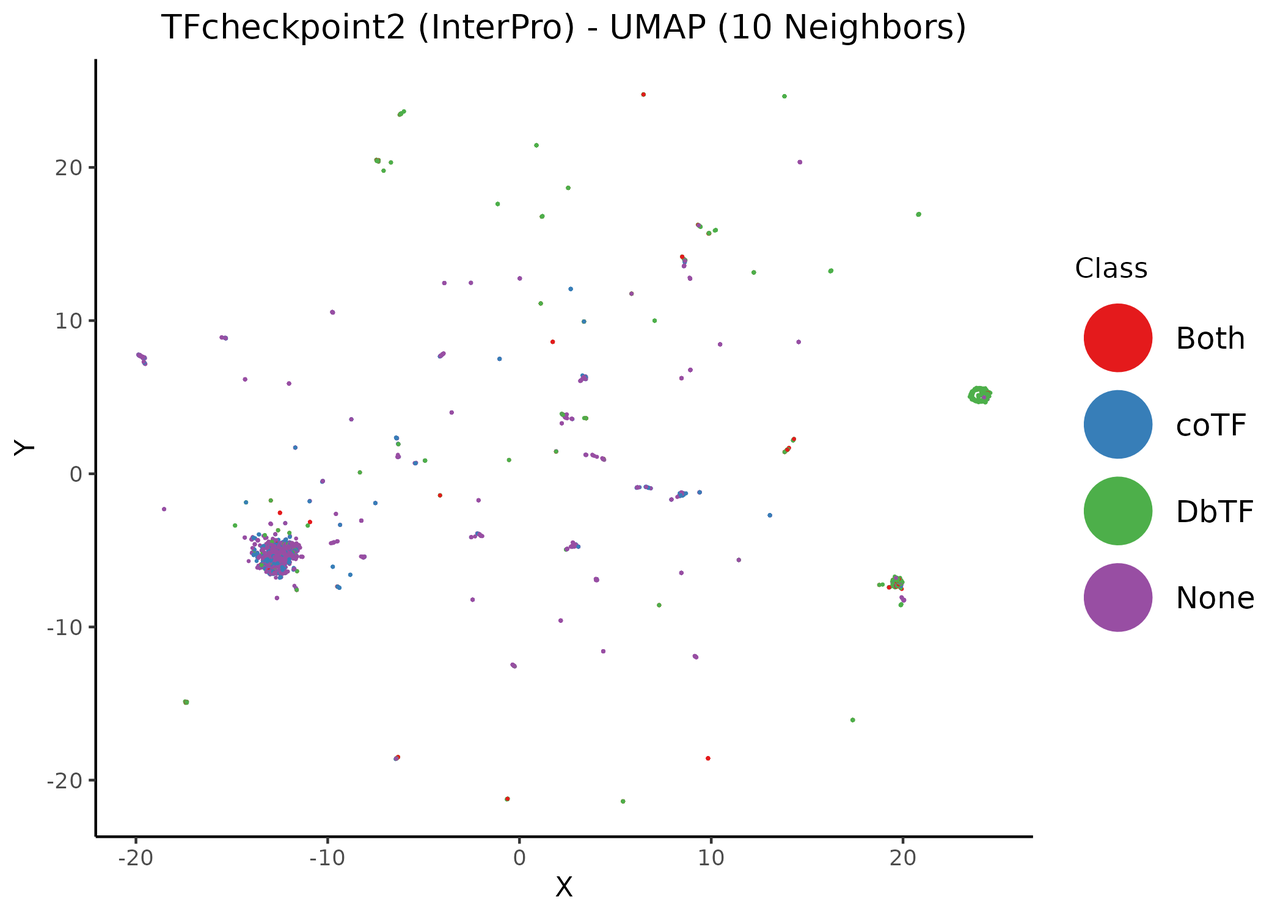
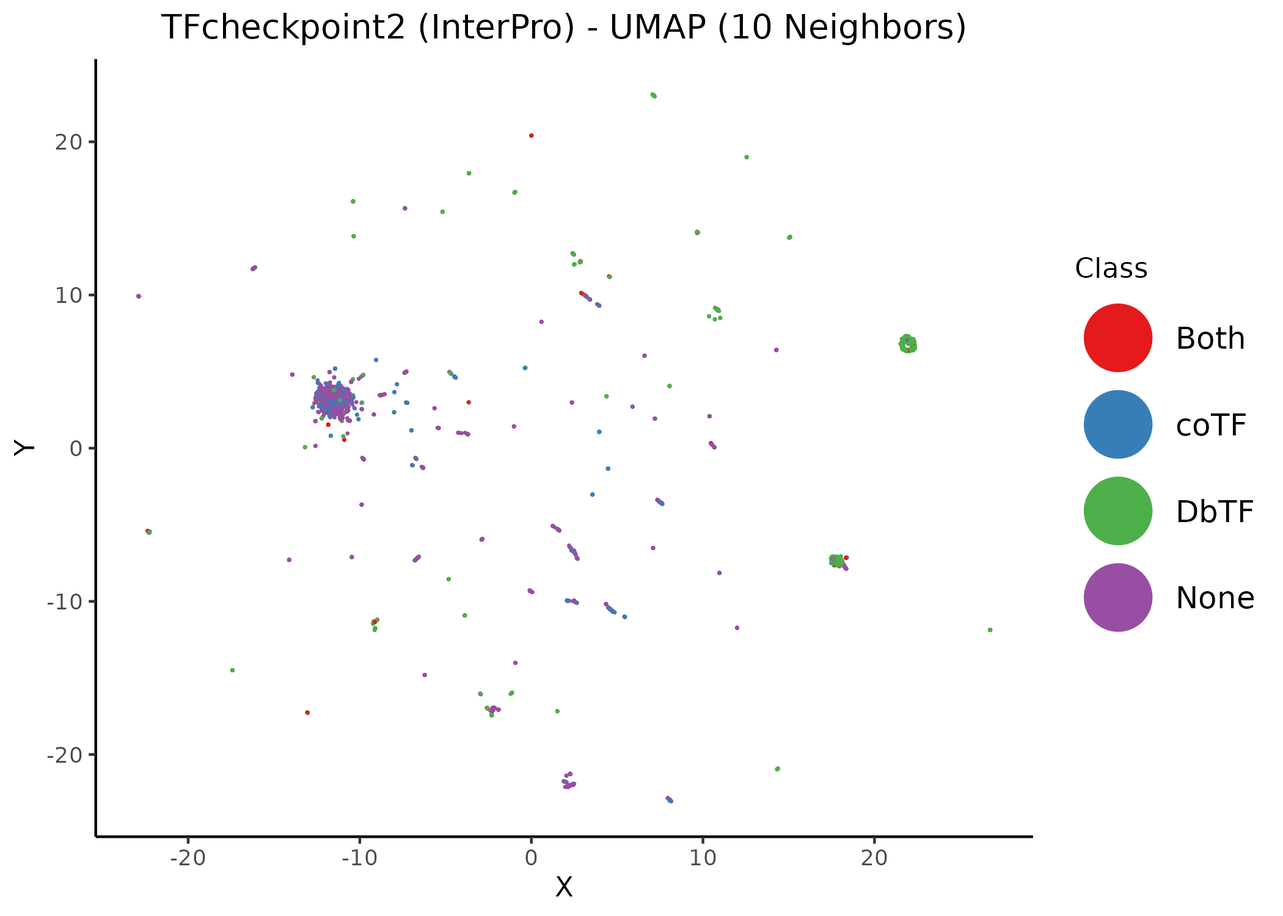
update docs

diff --git a/docs/index.html b/docs/index.html
@@ -911,8 +911,8 @@ div.csl-indent {
 </ul></li>
 <li class="chapter" data-level="" data-path=""><a href="#analysis-new-dataset"><i class="fa fa-check"></i>Analysis (New Dataset)</a>
 <ul>
-<li class="chapter" data-level="" data-path=""><a href="#protein-class-annotation"><i class="fa fa-check"></i>Protein Class Annotation</a></li>
-<li class="chapter" data-level="" data-path=""><a href="#interpro-vs-go-vs-combined-dataset"><i class="fa fa-check"></i>InterPro vs GO vs Combined Dataset</a>
+<li class="chapter" data-level="" data-path=""><a href="#class-annot1"><i class="fa fa-check"></i>Protein Class Annotation 1</a></li>
+<li class="chapter" data-level="" data-path=""><a href="#interpro-vs-go-full-vs-combined-dataset"><i class="fa fa-check"></i>InterPro vs GO (full) vs Combined Dataset</a>
 <ul>
 <li class="chapter" data-level="" data-path=""><a href="#interpro-dataset"><i class="fa fa-check"></i>InterPro Dataset</a></li>
 <li class="chapter" data-level="" data-path=""><a href="#go-dataset"><i class="fa fa-check"></i>GO Dataset</a></li>
@@ -945,7 +945,7 @@ div.csl-indent {
 <div id="header">
 <h1 class="title">TFcheckpoint Dataset visualization using UMAP</h1>
 <p class="author"><em><a href="https://github.com/bblodfon">John Zobolas</a></em></p>
-<p class="date"><em>Last updated: 08 November, 2021</em></p>
+<p class="date"><em>Last updated: 16 November, 2021</em></p>
 </div>
 <div id="input" class="section level1 unnumbered">
 <h1>Input</h1>
@@ -974,9 +974,11 @@ The dataset is provided as a <a href="https://github.com/druglogics/tfcheckpoint
 </div>
 <div id="new-dataset" class="section level2 unnumbered">
 <h2>New Dataset</h2>
-<p>The new dataset features an updated curated list of <span class="math inline">\(3875\)</span> proteins that are part of TFcheckpoint (v2).
-For each of these proteins, we have gathered <strong>Gene ontology (GO) IDs</strong> and cross-referenced <strong>InterPro domains</strong>, using UniProt’s ID mapping <a href="https://www.uniprot.org/uploadlists/">online service</a> (<code>UniProtKB</code> for <code>To</code> mapping option and selecting the appropriate columns).
-The resulting data file is available as a <a href="https://github.com/druglogics/tfcheckpoint-umap/blob/main/data/tfc2_all_human_go_interpro_22102021_ALL.tsv">tab-delimited file</a> (retrieved 22/10/2021).</p>
+<p>The new dataset features an updated curated list of <span class="math inline">\(3842\)</span> proteins that are part of TFcheckpoint (TFch2, v2.0).
+For each of these proteins, we have gathered <strong>Gene ontology (GO) IDs with and without IEA</strong> (Electronic Annotation) from the <a href="http://ftp.ebi.ac.uk/pub/databases/GO/goa/HUMAN/">ftp site</a> of the GO database (files were produced on the 8th of November) and cross-referenced <strong>InterPro domains</strong>, using UniProt’s ID mapping <a href="https://www.uniprot.org/uploadlists/">online service</a> (<code>UniProtKB</code> for <code>To</code> mapping option and selecting the appropriate columns).
+Also the corresponding gene names (HGNC) were collected using the Uniprot’s uploadlist website on the 8th of November.
+For each protein in TFch2, we also calculated a score denoting the probability of a protein being a transcription factor using DeepTFactor <span class="citation">(<a href="#ref-Kim2021" role="doc-biblioref">Kim et al. 2021</a>)</span>.</p>
+<p>The resulting data file is available as a <a href="https://github.com/druglogics/tfcheckpoint-umap/blob/main/data/data_tbl_16112021.tsv">tab-delimited file</a> (timestamp 16/11/2021).</p>
 <div class="green-box">
 <p>Analysis on this dataset was performed <strong>June-November 2021</strong> (sporadically :) and will be featured in the second TF-checkpoint paper.</p>
 </div>
@@ -1418,19 +1420,20 @@ Figure 23: Supervised UMAP using 14 neighbors. Proteins are colored atop the 2D 
 <p>See script <a href="https://github.com/druglogics/tfcheckpoint-umap/blob/main/scripts/new_analysis.R">new_analysis.R</a> for more details.
 We show how to expand the GO and InterPro datasets to 0-1 matrices, how we annotated each protein’s class (as <code>DbTF</code>, <code>coTF</code>, <code>Both</code> or <code>None</code>), run UMAP and produce the following figures.</p>
 </div>
-<div id="protein-class-annotation" class="section level2 unnumbered">
-<h2>Protein Class Annotation</h2>
-<p>Each protein in TF2 can belong to one of the following 4 classes: <code>DbTF</code>, <code>coTF</code>, <code>Both</code> or <code>None</code>.
+<div id="class-annot1" class="section level2 unnumbered">
+<h2>Protein Class Annotation 1</h2>
+<p>Each protein in TFch2 can belong to one of the following 4 classes: <code>DbTF</code>, <code>coTF</code>, <code>Both</code> or <code>None</code>.
 Proteins were labeled as DNA-binding transcription factors if they belonged to the online list provided in <span class="citation">(<a href="#ref-Lovering2021" role="doc-biblioref">Lovering et al. 2021</a>)</span> (retrieved 2/11/2021).
 Proteins were labeled as co-transcription factors if they had at least one GO term annotation from this <a href="https://github.com/druglogics/tfcheckpoint-umap/blob/main/data/coTF_GO_terms.tsv">online list</a>.
 Proteins that belonged to both of these lists were labeled as <code>Both</code>.
 Obviously, proteins that belonged to none of these lists were labeled as <code>None</code>.</p>
 </div>
-<div id="interpro-vs-go-vs-combined-dataset" class="section level2 unnumbered">
-<h2>InterPro vs GO vs Combined Dataset</h2>
+<div id="interpro-vs-go-full-vs-combined-dataset" class="section level2 unnumbered">
+<h2>InterPro vs GO (full) vs Combined Dataset</h2>
 <div class="green-box">
-<p>The unsupervised UMAP results using either the <strong>GO matrix</strong>, <strong>InterPro matrix</strong> or <strong>both matrices combined as one</strong> are given in the following 3 subsections.</p>
-<p>Generally, <strong>the GO dataset was more informative</strong> and provided more compact/cohesive classification of the proteins vs the InterPro dataset.
+<p>The unsupervised UMAP results using either the <strong>full GO matrix</strong>, <strong>InterPro matrix</strong> or <strong>both these matrices combined as one</strong> are given in the following 3 subsections.</p>
+<p><a href="#class-annot1">This</a> protein class annotation is used.</p>
+<p>Generally, <strong>the full GO dataset was more informative</strong> and provided more compact/cohesive classification of the proteins vs the InterPro dataset.
 Using both datasets we don’t see any significant improvement in the position of the UMAP sub-clusters vs using just the GO dataset.</p>
 </div>
 <div id="interpro-dataset" class="section level3 unnumbered">
@@ -1440,9 +1443,9 @@ Using both datasets we don’t see any significant improvement in the position o
 <span id="cb32-3"><a href="#cb32-3" aria-hidden="true" tabindex="-1"></a>knitr<span class="sc">::</span><span class="fu">include_graphics</span>(<span class="at">path =</span> <span class="st">&#39;img/tfch2-InterPro/tfc2_umap_14n_interpro.png&#39;</span>)</span>
 <span id="cb32-4"><a href="#cb32-4" aria-hidden="true" tabindex="-1"></a>knitr<span class="sc">::</span><span class="fu">include_graphics</span>(<span class="at">path =</span> <span class="st">&#39;img/tfch2-InterPro/tfc2_umap_20n_interpro.png&#39;</span>)</span></code></pre></div>
 <div class="figure"><span style="display:block;" id="fig:tfch2-umap-interpro"></span>
-<img src="img/tfch2-InterPro/tfc2_umap_6n_interpro.png" alt="Unsupervised UMAP of the TFcheckpoint v2 dataset annotated using InterPro domains. Different values of the neighbors parameter per figure. Data points (proteins) have been colored according to their their respective class annotation." width="50%" /><img src="img/tfch2-InterPro/tfc2_umap_10n_interpro.png" alt="Unsupervised UMAP of the TFcheckpoint v2 dataset annotated using InterPro domains. Different values of the neighbors parameter per figure. Data points (proteins) have been colored according to their their respective class annotation." width="50%" /><img src="img/tfch2-InterPro/tfc2_umap_14n_interpro.png" alt="Unsupervised UMAP of the TFcheckpoint v2 dataset annotated using InterPro domains. Different values of the neighbors parameter per figure. Data points (proteins) have been colored according to their their respective class annotation." width="50%" /><img src="img/tfch2-InterPro/tfc2_umap_20n_interpro.png" alt="Unsupervised UMAP of the TFcheckpoint v2 dataset annotated using InterPro domains. Different values of the neighbors parameter per figure. Data points (proteins) have been colored according to their their respective class annotation." width="50%" />
+<img src="img/tfch2-InterPro/tfc2_umap_6n_interpro.png" alt="Unsupervised UMAP of the TFcheckpoint v2.0 dataset annotated using InterPro domains. Different values of the neighbors parameter per figure. Data points (proteins) have been colored according to their their respective class annotation (1)." width="50%" /><img src="img/tfch2-InterPro/tfc2_umap_10n_interpro.png" alt="Unsupervised UMAP of the TFcheckpoint v2.0 dataset annotated using InterPro domains. Different values of the neighbors parameter per figure. Data points (proteins) have been colored according to their their respective class annotation (1)." width="50%" /><img src="img/tfch2-InterPro/tfc2_umap_14n_interpro.png" alt="Unsupervised UMAP of the TFcheckpoint v2.0 dataset annotated using InterPro domains. Different values of the neighbors parameter per figure. Data points (proteins) have been colored according to their their respective class annotation (1)." width="50%" /><img src="img/tfch2-InterPro/tfc2_umap_20n_interpro.png" alt="Unsupervised UMAP of the TFcheckpoint v2.0 dataset annotated using InterPro domains. Different values of the neighbors parameter per figure. Data points (proteins) have been colored according to their their respective class annotation (1)." width="50%" />
 <p class="caption">
-Figure 24: Unsupervised UMAP of the TFcheckpoint v2 dataset annotated using InterPro domains. Different values of the neighbors parameter per figure. Data points (proteins) have been colored according to their their respective class annotation.
+Figure 24: Unsupervised UMAP of the TFcheckpoint v2.0 dataset annotated using InterPro domains. Different values of the neighbors parameter per figure. Data points (proteins) have been colored according to their their respective class annotation (1).
 </p>
 </div>
 </div>
@@ -1452,10 +1455,10 @@ Figure 24: Unsupervised UMAP of the TFcheckpoint v2 dataset annotated using Inte
 <span id="cb33-2"><a href="#cb33-2" aria-hidden="true" tabindex="-1"></a>knitr<span class="sc">::</span><span class="fu">include_graphics</span>(<span class="at">path =</span> <span class="st">&#39;img/tfch2-GO/tfc2_umap_10n_go.png&#39;</span>)</span>
 <span id="cb33-3"><a href="#cb33-3" aria-hidden="true" tabindex="-1"></a>knitr<span class="sc">::</span><span class="fu">include_graphics</span>(<span class="at">path =</span> <span class="st">&#39;img/tfch2-GO/tfc2_umap_14n_go.png&#39;</span>)</span>
 <span id="cb33-4"><a href="#cb33-4" aria-hidden="true" tabindex="-1"></a>knitr<span class="sc">::</span><span class="fu">include_graphics</span>(<span class="at">path =</span> <span class="st">&#39;img/tfch2-GO/tfc2_umap_20n_go.png&#39;</span>)</span></code></pre></div>
-<div class="figure"><span style="display:block;" id="fig:tfch2-umap-go"></span>
-<img src="img/tfch2-GO/tfc2_umap_6n_go.png" alt="Unsupervised UMAP of the TFcheckpoint v2 dataset annotated using GO terms. Different values of the neighbors parameter per figure. Data points (proteins) have been colored according to their their respective class annotation." width="50%" /><img src="img/tfch2-GO/tfc2_umap_10n_go.png" alt="Unsupervised UMAP of the TFcheckpoint v2 dataset annotated using GO terms. Different values of the neighbors parameter per figure. Data points (proteins) have been colored according to their their respective class annotation." width="50%" /><img src="img/tfch2-GO/tfc2_umap_14n_go.png" alt="Unsupervised UMAP of the TFcheckpoint v2 dataset annotated using GO terms. Different values of the neighbors parameter per figure. Data points (proteins) have been colored according to their their respective class annotation." width="50%" /><img src="img/tfch2-GO/tfc2_umap_20n_go.png" alt="Unsupervised UMAP of the TFcheckpoint v2 dataset annotated using GO terms. Different values of the neighbors parameter per figure. Data points (proteins) have been colored according to their their respective class annotation." width="50%" />
+<div class="figure"><span style="display:block;" id="fig:tfch2-umap-go-full"></span>
+<img src="img/tfch2-GO/tfc2_umap_6n_go.png" alt="Unsupervised UMAP of the TFcheckpoint v2.0 dataset annotated using GO terms. Different values of the neighbors parameter per figure. Data points (proteins) have been colored according to their their respective class annotation (1)." width="50%" /><img src="img/tfch2-GO/tfc2_umap_10n_go.png" alt="Unsupervised UMAP of the TFcheckpoint v2.0 dataset annotated using GO terms. Different values of the neighbors parameter per figure. Data points (proteins) have been colored according to their their respective class annotation (1)." width="50%" /><img src="img/tfch2-GO/tfc2_umap_14n_go.png" alt="Unsupervised UMAP of the TFcheckpoint v2.0 dataset annotated using GO terms. Different values of the neighbors parameter per figure. Data points (proteins) have been colored according to their their respective class annotation (1)." width="50%" /><img src="img/tfch2-GO/tfc2_umap_20n_go.png" alt="Unsupervised UMAP of the TFcheckpoint v2.0 dataset annotated using GO terms. Different values of the neighbors parameter per figure. Data points (proteins) have been colored according to their their respective class annotation (1)." width="50%" />
 <p class="caption">
-Figure 25: Unsupervised UMAP of the TFcheckpoint v2 dataset annotated using GO terms. Different values of the neighbors parameter per figure. Data points (proteins) have been colored according to their their respective class annotation.
+Figure 25: Unsupervised UMAP of the TFcheckpoint v2.0 dataset annotated using GO terms. Different values of the neighbors parameter per figure. Data points (proteins) have been colored according to their their respective class annotation (1).
 </p>
 </div>
 </div>
@@ -1466,9 +1469,9 @@ Figure 25: Unsupervised UMAP of the TFcheckpoint v2 dataset annotated using GO t
 <span id="cb34-3"><a href="#cb34-3" aria-hidden="true" tabindex="-1"></a>knitr<span class="sc">::</span><span class="fu">include_graphics</span>(<span class="at">path =</span> <span class="st">&#39;img/tfch2-combined/tfc2_umap_14n_combined.png&#39;</span>)</span>
 <span id="cb34-4"><a href="#cb34-4" aria-hidden="true" tabindex="-1"></a>knitr<span class="sc">::</span><span class="fu">include_graphics</span>(<span class="at">path =</span> <span class="st">&#39;img/tfch2-combined/tfc2_umap_20n_combined.png&#39;</span>)</span></code></pre></div>
 <div class="figure"><span style="display:block;" id="fig:tfch2-umap-combined"></span>
-<img src="img/tfch2-combined/tfc2_umap_6n_combined.png" alt="Unsupervised UMAP of the TFcheckpoint v2 dataset annotated using both InterPro domains and GO terms. Different values of the neighbors parameter per figure. Data points (proteins) have been colored according to their their respective class annotation." width="50%" /><img src="img/tfch2-combined/tfc2_umap_10n_combined.png" alt="Unsupervised UMAP of the TFcheckpoint v2 dataset annotated using both InterPro domains and GO terms. Different values of the neighbors parameter per figure. Data points (proteins) have been colored according to their their respective class annotation." width="50%" /><img src="img/tfch2-combined/tfc2_umap_14n_combined.png" alt="Unsupervised UMAP of the TFcheckpoint v2 dataset annotated using both InterPro domains and GO terms. Different values of the neighbors parameter per figure. Data points (proteins) have been colored according to their their respective class annotation." width="50%" /><img src="img/tfch2-combined/tfc2_umap_20n_combined.png" alt="Unsupervised UMAP of the TFcheckpoint v2 dataset annotated using both InterPro domains and GO terms. Different values of the neighbors parameter per figure. Data points (proteins) have been colored according to their their respective class annotation." width="50%" />
+<img src="img/tfch2-combined/tfc2_umap_6n_combined.png" alt="Unsupervised UMAP of the TFcheckpoint v2.0 dataset annotated using both InterPro domains and GO terms. Different values of the neighbors parameter per figure. Data points (proteins) have been colored according to their respective class annotation (1)." width="50%" /><img src="img/tfch2-combined/tfc2_umap_10n_combined.png" alt="Unsupervised UMAP of the TFcheckpoint v2.0 dataset annotated using both InterPro domains and GO terms. Different values of the neighbors parameter per figure. Data points (proteins) have been colored according to their respective class annotation (1)." width="50%" /><img src="img/tfch2-combined/tfc2_umap_14n_combined.png" alt="Unsupervised UMAP of the TFcheckpoint v2.0 dataset annotated using both InterPro domains and GO terms. Different values of the neighbors parameter per figure. Data points (proteins) have been colored according to their respective class annotation (1)." width="50%" /><img src="img/tfch2-combined/tfc2_umap_20n_combined.png" alt="Unsupervised UMAP of the TFcheckpoint v2.0 dataset annotated using both InterPro domains and GO terms. Different values of the neighbors parameter per figure. Data points (proteins) have been colored according to their respective class annotation (1)." width="50%" />
 <p class="caption">
-Figure 26: Unsupervised UMAP of the TFcheckpoint v2 dataset annotated using both InterPro domains and GO terms. Different values of the neighbors parameter per figure. Data points (proteins) have been colored according to their their respective class annotation.
+Figure 26: Unsupervised UMAP of the TFcheckpoint v2.0 dataset annotated using both InterPro domains and GO terms. Different values of the neighbors parameter per figure. Data points (proteins) have been colored according to their respective class annotation (1).
 </p>
 </div>
 </div>
@@ -1476,23 +1479,16 @@ Figure 26: Unsupervised UMAP of the TFcheckpoint v2 dataset annotated using both
 <div id="cluster-annotated-umap---go-dataset" class="section level2 unnumbered">
 <h2>Cluster Annotated UMAP - GO Dataset</h2>
 <p>We use the UMAP embedding (<strong>GO dataset, 20 neighbors</strong>) to discuss several interesting cases of proteins that seem to belong in different clusters than they should be, based on the protein class annotation:</p>
-<div class="sourceCode" id="cb35"><pre class="sourceCode r"><code class="sourceCode r"><span id="cb35-1"><a href="#cb35-1" aria-hidden="true" tabindex="-1"></a>knitr<span class="sc">::</span><span class="fu">include_graphics</span>(<span class="at">path =</span> <span class="st">&#39;img/tfch2-GO/tfc2_umap_20n_GO_cluster_annot.png&#39;</span>)</span></code></pre></div>
-<div class="figure"><span style="display:block;" id="fig:tfch2-umap-go-annot"></span>
-<img src="img/tfch2-GO/tfc2_umap_20n_GO_cluster_annot.png" alt="Unsupervised UMAP of the TFcheckpoint v2 dataset annotated using GO terms (20 neighbors). Data points (proteins) have been colored according to their their respective class annotation. Boxes signify the different protein clusters created by UMAP." width="1050" />
-<p class="caption">
-Figure 27: Unsupervised UMAP of the TFcheckpoint v2 dataset annotated using GO terms (20 neighbors). Data points (proteins) have been colored according to their their respective class annotation. Boxes signify the different protein clusters created by UMAP.
-</p>
-</div>
 <div class="green-box">
 <ul>
-<li>See <a href="https://github.com/druglogics/tfcheckpoint-umap/blob/main/data/tfch2_umap_20n_GO_cluster_annot.csv">file</a> with the protein ids, gene names, cluster ids and annotated class.</li>
+<li>See <a href="https://github.com/druglogics/tfcheckpoint-umap/blob/main/data/TODO.csv">file</a> with the protein ids, gene names, cluster ids and annotated class.</li>
 </ul>
 </div>
 </div>
 </div>
 <div id="r-session-info" class="section level1 unnumbered">
 <h1>R session info</h1>
-<div class="sourceCode" id="cb36"><pre class="sourceCode r fold-show"><code class="sourceCode r"><span id="cb36-1"><a href="#cb36-1" aria-hidden="true" tabindex="-1"></a>xfun<span class="sc">::</span><span class="fu">session_info</span>()</span></code></pre></div>
+<div class="sourceCode" id="cb35"><pre class="sourceCode r fold-show"><code class="sourceCode r"><span id="cb35-1"><a href="#cb35-1" aria-hidden="true" tabindex="-1"></a>xfun<span class="sc">::</span><span class="fu">session_info</span>()</span></code></pre></div>
 <pre><code>R version 3.6.3 (2020-02-29)
 Platform: x86_64-pc-linux-gnu (64-bit)
 Running under: Ubuntu 20.04.3 LTS
@@ -1547,6 +1543,9 @@ Carbon, S., E. Douglass, N. Dunn, B. Good, N. L. Harris, S. E. Lewis, C. J. Mung
 </div>
 <div id="ref-Chawla2013" class="csl-entry">
 Chawla, Konika, Sushil Tripathi, Liv Thommesen, Astrid Lægreid, and Martin Kuiper. 2013. <span>“<span class="nocase">TFcheckpoint: A curated compendium of specific DNA-binding RNA polymerase II transcription factors</span>.”</span> <em>Bioinformatics</em> 29 (19): 2519–20. <a href="https://doi.org/10.1093/bioinformatics/btt432">https://doi.org/10.1093/bioinformatics/btt432</a>.
+</div>
+<div id="ref-Kim2021" class="csl-entry">
+Kim, Gi Bae, Ye Gao, Bernhard O. Palsson, and Sang Yup Lee. 2021. <span>“<span class="nocase">DeepTFactor: A deep learning-based tool for the prediction of transcription factors</span>.”</span> <em>Proceedings of the National Academy of Sciences of the United States of America</em> 118 (2). <a href="https://doi.org/10.1073/pnas.2021171118">https://doi.org/10.1073/pnas.2021171118</a>.
 </div>
 <div id="ref-Lovering2021" class="csl-entry">
 Lovering, Ruth C., Pascale Gaudet, Marcio L. Acencio, Alex Ignatchenko, Arttu Jolma, Oriol Fornes, Martin Kuiper, et al. 2021. <span>“<span class="nocase">A GO catalogue of human DNA-binding transcription factors</span>.”</span> <em>Biochimica Et Biophysica Acta (BBA) - Gene Regulatory Mechanisms</em>, October, 194765. <a href="https://doi.org/10.1016/J.BBAGRM.2021.194765">https://doi.org/10.1016/J.BBAGRM.2021.194765</a>.

diff --git a/docs/404.html b/docs/404.html
@@ -911,8 +911,8 @@ div.csl-indent {
 </ul></li>
 <li class="chapter" data-level="" data-path=""><a href="#analysis-new-dataset"><i class="fa fa-check"></i>Analysis (New Dataset)</a>
 <ul>
-<li class="chapter" data-level="" data-path=""><a href="#protein-class-annotation"><i class="fa fa-check"></i>Protein Class Annotation</a></li>
-<li class="chapter" data-level="" data-path=""><a href="#interpro-vs-go-vs-combined-dataset"><i class="fa fa-check"></i>InterPro vs GO vs Combined Dataset</a>
+<li class="chapter" data-level="" data-path=""><a href="#class-annot1"><i class="fa fa-check"></i>Protein Class Annotation 1</a></li>
+<li class="chapter" data-level="" data-path=""><a href="#interpro-vs-go-full-vs-combined-dataset"><i class="fa fa-check"></i>InterPro vs GO (full) vs Combined Dataset</a>
 <ul>
 <li class="chapter" data-level="" data-path=""><a href="#interpro-dataset"><i class="fa fa-check"></i>InterPro Dataset</a></li>
 <li class="chapter" data-level="" data-path=""><a href="#go-dataset"><i class="fa fa-check"></i>GO Dataset</a></li>

diff --git a/docs/index.md b/docs/index.md
@@ -1,7 +1,7 @@
 ---
 title: "TFcheckpoint Dataset visualization using UMAP"
 author: "[John Zobolas](https://github.com/bblodfon)"
-date: "Last updated: 08 November, 2021"
+date: "Last updated: 16 November, 2021"
 description: "Description"
 url: 'https\://druglogics.github.io/tfcheckpoint-umap/'
 github-repo: "druglogics/tfcheckpoint-umap"
@@ -42,9 +42,12 @@ Analysis on this dataset was performed **November 2020**.
 
 ## New Dataset {-}
 
-The new dataset features an updated curated list of $3875$ proteins that are part of TFcheckpoint (v2).
-For each of these proteins, we have gathered **Gene ontology (GO) IDs** and cross-referenced **InterPro domains**, using UniProt's ID mapping [online service](https://www.uniprot.org/uploadlists/) (`UniProtKB` for `To` mapping option and selecting the appropriate columns).
-The resulting data file is available as a [tab-delimited file](https://github.com/druglogics/tfcheckpoint-umap/blob/main/data/tfc2_all_human_go_interpro_22102021_ALL.tsv) (retrieved 22/10/2021).
+The new dataset features an updated curated list of $3842$ proteins that are part of TFcheckpoint (TFch2, v2.0).
+For each of these proteins, we have gathered **Gene ontology (GO) IDs with and without IEA** (Electronic Annotation) from the [ftp site](http://ftp.ebi.ac.uk/pub/databases/GO/goa/HUMAN/) of the GO database (files were produced on the 8th of November) and cross-referenced **InterPro domains**, using UniProt's ID mapping [online service](https://www.uniprot.org/uploadlists/) (`UniProtKB` for `To` mapping option and selecting the appropriate columns).
+Also the corresponding gene names (HGNC) were collected using the Uniprot's uploadlist website on the 8th of November.
+For each protein in TFch2, we also calculated a score denoting the probability of a protein being a transcription factor using DeepTFactor [@Kim2021].  
+
+The resulting data file is available as a [tab-delimited file](https://github.com/druglogics/tfcheckpoint-umap/blob/main/data/data_tbl_16112021.tsv) (timestamp 16/11/2021).
 
 :::{.green-box}
 Analysis on this dataset was performed **June-November 2021** (sporadically :) and will be featured in the second TF-checkpoint paper.
@@ -522,20 +525,22 @@ See script [new_analysis.R](https://github.com/druglogics/tfcheckpoint-umap/blob
 We show how to expand the GO and InterPro datasets to 0-1 matrices, how we annotated each protein's class (as `DbTF`, `coTF`, `Both` or `None`), run UMAP and produce the following figures.
 :::
 
-## Protein Class Annotation {-}
+## Protein Class Annotation 1 {-#class-annot1}
 
-Each protein in TF2 can belong to one of the following 4 classes: `DbTF`, `coTF`, `Both` or `None`.
+Each protein in TFch2 can belong to one of the following 4 classes: `DbTF`, `coTF`, `Both` or `None`.
 Proteins were labeled as DNA-binding transcription factors if they belonged to the online list provided in [@Lovering2021] (retrieved 2/11/2021).
 Proteins were labeled as co-transcription factors if they had at least one GO term annotation from this [online list](https://github.com/druglogics/tfcheckpoint-umap/blob/main/data/coTF_GO_terms.tsv).
 Proteins that belonged to both of these lists were labeled as `Both`.
 Obviously, proteins that belonged to none of these lists were labeled as `None`.
 
-## InterPro vs GO vs Combined Dataset {-}
+## InterPro vs GO (full) vs Combined Dataset {-}
 
 :::{.green-box}
-The unsupervised UMAP results using either the **GO matrix**, **InterPro matrix** or **both matrices combined as one** are given in the following 3 subsections.
+The unsupervised UMAP results using either the **full GO matrix**, **InterPro matrix** or **both these matrices combined as one** are given in the following 3 subsections.
 
-Generally, **the GO dataset was more informative** and provided more compact/cohesive classification of the proteins vs the InterPro dataset.
+[This](#class-annot1) protein class annotation is used.
+
+Generally, **the full GO dataset was more informative** and provided more compact/cohesive classification of the proteins vs the InterPro dataset.
 Using both datasets we don't see any significant improvement in the position of the UMAP sub-clusters vs using just the GO dataset.
 :::
 
@@ -550,8 +555,8 @@ knitr::include_graphics(path = 'img/tfch2-InterPro/tfc2_umap_20n_interpro.png')
 ```
 
 <div class="figure">
-<img src="img/tfch2-InterPro/tfc2_umap_6n_interpro.png" alt="Unsupervised UMAP of the TFcheckpoint v2 dataset annotated using InterPro domains. Different values of the neighbors parameter per figure. Data points (proteins) have been colored according to their their respective class annotation." width="50%" /><img src="img/tfch2-InterPro/tfc2_umap_10n_interpro.png" alt="Unsupervised UMAP of the TFcheckpoint v2 dataset annotated using InterPro domains. Different values of the neighbors parameter per figure. Data points (proteins) have been colored according to their their respective class annotation." width="50%" /><img src="img/tfch2-InterPro/tfc2_umap_14n_interpro.png" alt="Unsupervised UMAP of the TFcheckpoint v2 dataset annotated using InterPro domains. Different values of the neighbors parameter per figure. Data points (proteins) have been colored according to their their respective class annotation." width="50%" /><img src="img/tfch2-InterPro/tfc2_umap_20n_interpro.png" alt="Unsupervised UMAP of the TFcheckpoint v2 dataset annotated using InterPro domains. Different values of the neighbors parameter per figure. Data points (proteins) have been colored according to their their respective class annotation." width="50%" />
-<p class="caption">(\#fig:tfch2-umap-interpro)Unsupervised UMAP of the TFcheckpoint v2 dataset annotated using InterPro domains. Different values of the neighbors parameter per figure. Data points (proteins) have been colored according to their their respective class annotation.</p>
+<img src="img/tfch2-InterPro/tfc2_umap_6n_interpro.png" alt="Unsupervised UMAP of the TFcheckpoint v2.0 dataset annotated using InterPro domains. Different values of the neighbors parameter per figure. Data points (proteins) have been colored according to their their respective class annotation (1)." width="50%" /><img src="img/tfch2-InterPro/tfc2_umap_10n_interpro.png" alt="Unsupervised UMAP of the TFcheckpoint v2.0 dataset annotated using InterPro domains. Different values of the neighbors parameter per figure. Data points (proteins) have been colored according to their their respective class annotation (1)." width="50%" /><img src="img/tfch2-InterPro/tfc2_umap_14n_interpro.png" alt="Unsupervised UMAP of the TFcheckpoint v2.0 dataset annotated using InterPro domains. Different values of the neighbors parameter per figure. Data points (proteins) have been colored according to their their respective class annotation (1)." width="50%" /><img src="img/tfch2-InterPro/tfc2_umap_20n_interpro.png" alt="Unsupervised UMAP of the TFcheckpoint v2.0 dataset annotated using InterPro domains. Different values of the neighbors parameter per figure. Data points (proteins) have been colored according to their their respective class annotation (1)." width="50%" />
+<p class="caption">(\#fig:tfch2-umap-interpro)Unsupervised UMAP of the TFcheckpoint v2.0 dataset annotated using InterPro domains. Different values of the neighbors parameter per figure. Data points (proteins) have been colored according to their their respective class annotation (1).</p>
 </div>
 
 ### GO Dataset {-}
@@ -565,8 +570,8 @@ knitr::include_graphics(path = 'img/tfch2-GO/tfc2_umap_20n_go.png')
 ```
 
 <div class="figure">
-<img src="img/tfch2-GO/tfc2_umap_6n_go.png" alt="Unsupervised UMAP of the TFcheckpoint v2 dataset annotated using GO terms. Different values of the neighbors parameter per figure. Data points (proteins) have been colored according to their their respective class annotation." width="50%" /><img src="img/tfch2-GO/tfc2_umap_10n_go.png" alt="Unsupervised UMAP of the TFcheckpoint v2 dataset annotated using GO terms. Different values of the neighbors parameter per figure. Data points (proteins) have been colored according to their their respective class annotation." width="50%" /><img src="img/tfch2-GO/tfc2_umap_14n_go.png" alt="Unsupervised UMAP of the TFcheckpoint v2 dataset annotated using GO terms. Different values of the neighbors parameter per figure. Data points (proteins) have been colored according to their their respective class annotation." width="50%" /><img src="img/tfch2-GO/tfc2_umap_20n_go.png" alt="Unsupervised UMAP of the TFcheckpoint v2 dataset annotated using GO terms. Different values of the neighbors parameter per figure. Data points (proteins) have been colored according to their their respective class annotation." width="50%" />
-<p class="caption">(\#fig:tfch2-umap-go)Unsupervised UMAP of the TFcheckpoint v2 dataset annotated using GO terms. Different values of the neighbors parameter per figure. Data points (proteins) have been colored according to their their respective class annotation.</p>
+<img src="img/tfch2-GO/tfc2_umap_6n_go.png" alt="Unsupervised UMAP of the TFcheckpoint v2.0 dataset annotated using GO terms. Different values of the neighbors parameter per figure. Data points (proteins) have been colored according to their their respective class annotation (1)." width="50%" /><img src="img/tfch2-GO/tfc2_umap_10n_go.png" alt="Unsupervised UMAP of the TFcheckpoint v2.0 dataset annotated using GO terms. Different values of the neighbors parameter per figure. Data points (proteins) have been colored according to their their respective class annotation (1)." width="50%" /><img src="img/tfch2-GO/tfc2_umap_14n_go.png" alt="Unsupervised UMAP of the TFcheckpoint v2.0 dataset annotated using GO terms. Different values of the neighbors parameter per figure. Data points (proteins) have been colored according to their their respective class annotation (1)." width="50%" /><img src="img/tfch2-GO/tfc2_umap_20n_go.png" alt="Unsupervised UMAP of the TFcheckpoint v2.0 dataset annotated using GO terms. Different values of the neighbors parameter per figure. Data points (proteins) have been colored according to their their respective class annotation (1)." width="50%" />
+<p class="caption">(\#fig:tfch2-umap-go-full)Unsupervised UMAP of the TFcheckpoint v2.0 dataset annotated using GO terms. Different values of the neighbors parameter per figure. Data points (proteins) have been colored according to their their respective class annotation (1).</p>
 </div>
 
 ### Combined Dataset {-}
@@ -580,8 +585,8 @@ knitr::include_graphics(path = 'img/tfch2-combined/tfc2_umap_20n_combined.png')
 ```
 
 <div class="figure">
-<img src="img/tfch2-combined/tfc2_umap_6n_combined.png" alt="Unsupervised UMAP of the TFcheckpoint v2 dataset annotated using both InterPro domains and GO terms. Different values of the neighbors parameter per figure. Data points (proteins) have been colored according to their their respective class annotation." width="50%" /><img src="img/tfch2-combined/tfc2_umap_10n_combined.png" alt="Unsupervised UMAP of the TFcheckpoint v2 dataset annotated using both InterPro domains and GO terms. Different values of the neighbors parameter per figure. Data points (proteins) have been colored according to their their respective class annotation." width="50%" /><img src="img/tfch2-combined/tfc2_umap_14n_combined.png" alt="Unsupervised UMAP of the TFcheckpoint v2 dataset annotated using both InterPro domains and GO terms. Different values of the neighbors parameter per figure. Data points (proteins) have been colored according to their their respective class annotation." width="50%" /><img src="img/tfch2-combined/tfc2_umap_20n_combined.png" alt="Unsupervised UMAP of the TFcheckpoint v2 dataset annotated using both InterPro domains and GO terms. Different values of the neighbors parameter per figure. Data points (proteins) have been colored according to their their respective class annotation." width="50%" />
-<p class="caption">(\#fig:tfch2-umap-combined)Unsupervised UMAP of the TFcheckpoint v2 dataset annotated using both InterPro domains and GO terms. Different values of the neighbors parameter per figure. Data points (proteins) have been colored according to their their respective class annotation.</p>
+<img src="img/tfch2-combined/tfc2_umap_6n_combined.png" alt="Unsupervised UMAP of the TFcheckpoint v2.0 dataset annotated using both InterPro domains and GO terms. Different values of the neighbors parameter per figure. Data points (proteins) have been colored according to their respective class annotation (1)." width="50%" /><img src="img/tfch2-combined/tfc2_umap_10n_combined.png" alt="Unsupervised UMAP of the TFcheckpoint v2.0 dataset annotated using both InterPro domains and GO terms. Different values of the neighbors parameter per figure. Data points (proteins) have been colored according to their respective class annotation (1)." width="50%" /><img src="img/tfch2-combined/tfc2_umap_14n_combined.png" alt="Unsupervised UMAP of the TFcheckpoint v2.0 dataset annotated using both InterPro domains and GO terms. Different values of the neighbors parameter per figure. Data points (proteins) have been colored according to their respective class annotation (1)." width="50%" /><img src="img/tfch2-combined/tfc2_umap_20n_combined.png" alt="Unsupervised UMAP of the TFcheckpoint v2.0 dataset annotated using both InterPro domains and GO terms. Different values of the neighbors parameter per figure. Data points (proteins) have been colored according to their respective class annotation (1)." width="50%" />
+<p class="caption">(\#fig:tfch2-umap-combined)Unsupervised UMAP of the TFcheckpoint v2.0 dataset annotated using both InterPro domains and GO terms. Different values of the neighbors parameter per figure. Data points (proteins) have been colored according to their respective class annotation (1).</p>
 </div>
 
 ## Cluster Annotated UMAP - GO Dataset {-}
@@ -589,17 +594,9 @@ knitr::include_graphics(path = 'img/tfch2-combined/tfc2_umap_20n_combined.png')
 We use the UMAP embedding (**GO dataset, 20 neighbors**) to discuss several interesting cases of proteins that seem to belong in different clusters than they should be, based on the protein class annotation:
 
 
-```r
-knitr::include_graphics(path = 'img/tfch2-GO/tfc2_umap_20n_GO_cluster_annot.png')
-```
-
-<div class="figure">
-<img src="img/tfch2-GO/tfc2_umap_20n_GO_cluster_annot.png" alt="Unsupervised UMAP of the TFcheckpoint v2 dataset annotated using GO terms (20 neighbors). Data points (proteins) have been colored according to their their respective class annotation. Boxes signify the different protein clusters created by UMAP." width="1050" />
-<p class="caption">(\#fig:tfch2-umap-go-annot)Unsupervised UMAP of the TFcheckpoint v2 dataset annotated using GO terms (20 neighbors). Data points (proteins) have been colored according to their their respective class annotation. Boxes signify the different protein clusters created by UMAP.</p>
-</div>
 
 :::{.green-box}
-- See [file](https://github.com/druglogics/tfcheckpoint-umap/blob/main/data/tfch2_umap_20n_GO_cluster_annot.csv) with the protein ids, gene names, cluster ids and annotated class.
+- See [file](https://github.com/druglogics/tfcheckpoint-umap/blob/main/data/TODO.csv) with the protein ids, gene names, cluster ids and annotated class.
 :::
 
 # R session info {-}
